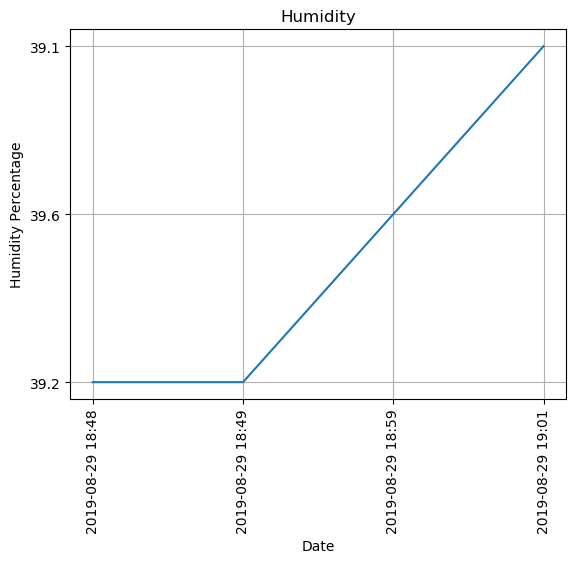
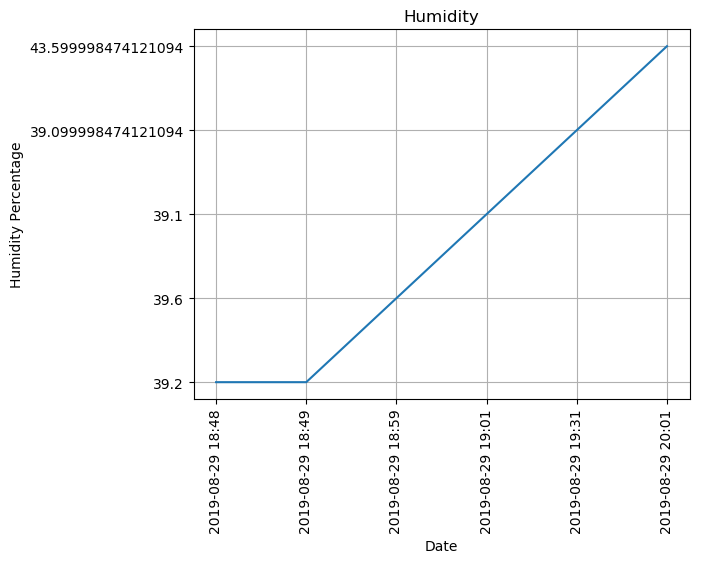
2019-08-29 20:01

diff --git a/monitor.py b/monitor.py
@@ -15,7 +15,7 @@ import Adafruit_DHT
 import requests
 import datetime
 
-cameraCaptureIsOn = True
+cameraCaptureIsOn = False
 now = datetime.datetime.now()
 temperatureFileName = '/share/raspiEyes/temperatures.txt'
 temperatureImageFileName = '/share/raspiEyes/temperatures.png'
@@ -38,8 +38,8 @@ if cameraCaptureIsOn:
 sensormodel = Adafruit_DHT.AM2302
 sensorpin = 4
 humidity, temperature = Adafruit_DHT.read_retry(sensormodel, sensorpin)
-humidity = round(humidity, 2)
-temperature = round(temperature, 2)
+# humidity = round(humidity, 2)
+# temperature = round(temperature, 2)
 
 # Prepare temperature file
 with open(temperatureFileName, 'a') as file:
